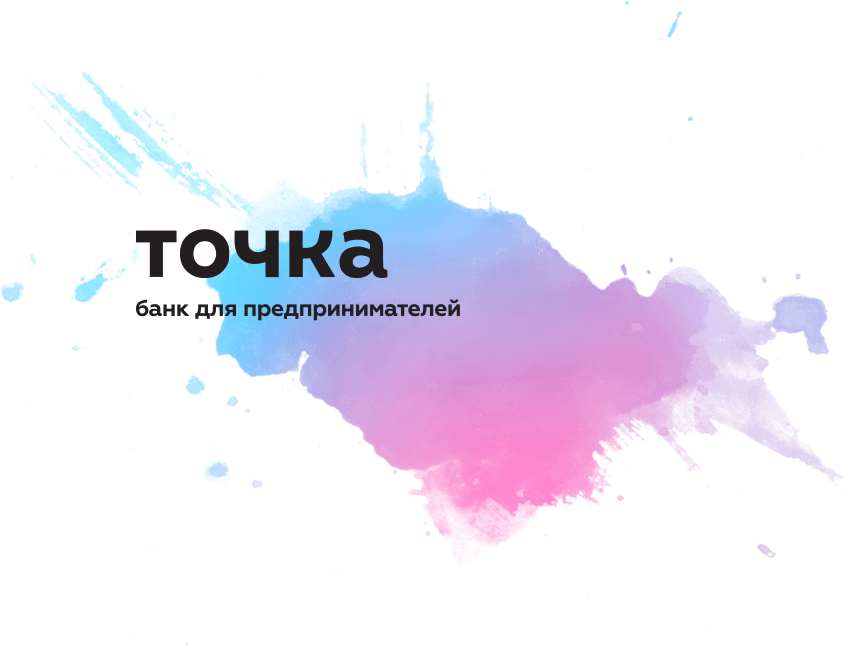
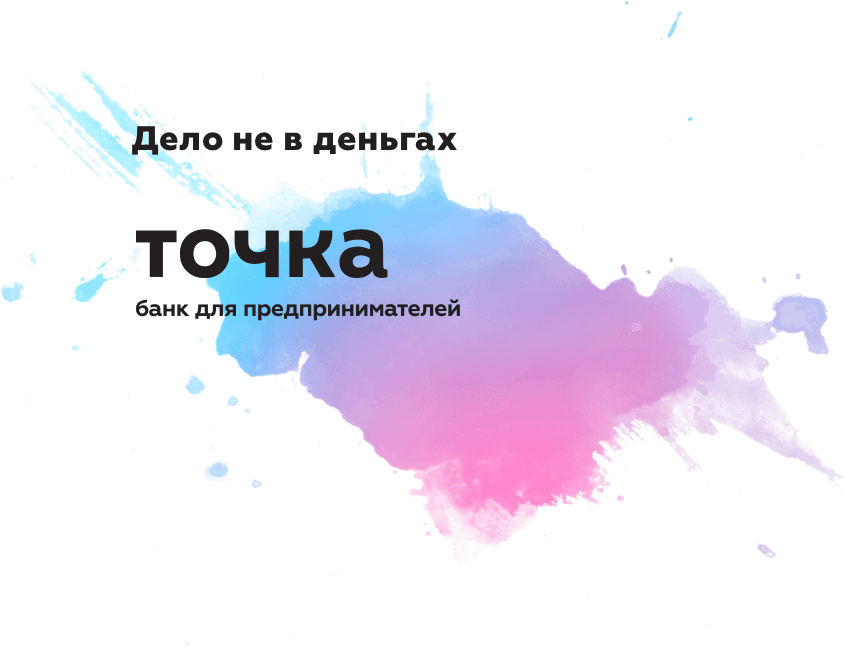
updated copy/index companies

Changed region(s): [[0.154, 0.1852, 0.5545, 0.2469]]

diff --git a/frontend/pages/index.html b/frontend/pages/index.html
@@ -9,9 +9,14 @@
 {% else %}
 <div class="company">
 {% endif %}
-  <div class="avatar" style="background-image:url(./images/companies/{{data.key}}/preview.png)">
-  </div>
-  <h3>{{ data.short_title }}</h3>
+  {% if data.short_title %}
+    <div class="avatar" style="background-image:url(./images/companies/{{data.key}}/preview.png)">
+    </div>
+    <h3>{{ data.short_title }}</h3>
+  {% else %}
+    <div class="avatar" style="background-image:url(./images/companies/noname.png)">
+    </div>
+  {% endif %}
   <h4>{{ data.city }}</h4>
 {% if data.content %}
 </a>
@@ -32,7 +37,8 @@
   <div class="main">
     <div class="index">
       <div class="title">
-        <a href="/">Бизнес-близнецы</a>
+        <div>Бизнес-близнецы</div>
+        <h2 class="subtitle">Дело не в деньгах</h2>
       </div>
       <a href="https://tochka.com/" target="_blank" class="sponsor-tochka">
         <img src="./images/sponsor-tochka.png" />
@@ -71,13 +77,13 @@
       <div class="frame js_frame">
         <ul class="slides js_slides">
           <li>
-            {{ compared("Кроссфит-клуб", arma, crossfit, true) }}
+            {{ compared("Кроссфит-клубы", arma, crossfit, true) }}
           </li>
           <li>
-            {{ compared("Агенство кибербезопасности", group_ib, mandalay) }}
+            {{ compared("Кондитерские", banoffi, bravo) }}
           </li>
           <li>
-            {{ compared("Пекарня", bakery_brothers, zeit_fur_brot) }}
+            {{ compared("Фотостудии", ekaterinburg, london) }}
           </li>
         </ul>
       </div>
@@ -92,13 +98,13 @@
     </div>
     <ul class="companies">
       <li>
-        {{ compared("Кроссфит-клуб", arma, crossfit, true) }}
+        {{ compared("Кроссфит-клубы", arma, crossfit, true) }}
       </li>
       <li>
-        {{ compared("Агенство кибербезопасности", group_ib, mandalay) }}
+        {{ compared("Кондитерские", banoffi, bravo) }}
       </li>
       <li>
-        {{ compared("Пекарня", bakery_brothers, zeit_fur_brot) }}
+        {{ compared("Фотостудии", ekaterinburg, london) }}
       </li>
     </ul>
   </div>

diff --git a/gulpfile.js b/gulpfile.js
@@ -84,10 +84,10 @@ gulp.task('nunjucks', function() {
   return gulp.src('frontend/pages/**/*.html')
     .pipe(data(function() { return require('./frontend/data/arma.json') }))
     .pipe(data(function() { return require('./frontend/data/crossfit.json') }))
-    .pipe(data(function() { return require('./frontend/data/group_ib.json') }))
-    .pipe(data(function() { return require('./frontend/data/mandalay.json') }))
-    .pipe(data(function() { return require('./frontend/data/bakery_brothers.json') }))
-    .pipe(data(function() { return require('./frontend/data/zeit_fur_brot.json') }))
+    .pipe(data(function() { return require('./frontend/data/bravo.json') }))
+    .pipe(data(function() { return require('./frontend/data/banoffi.json') }))
+    .pipe(data(function() { return require('./frontend/data/ekaterinburg.json') }))
+    .pipe(data(function() { return require('./frontend/data/london.json') }))
     .pipe(data(function() { return require('./frontend/data/meta.json') }))
     .pipe(data(function() { return { "production": !isDevelopment } }))
     .pipe(nunjucksRender({

diff --git a/frontend/styles/index.css b/frontend/styles/index.css
@@ -243,6 +243,11 @@ $companiesHeightMobile: 177px;
 
 .companies,
 .companies-slider {
+  li {
+    vertical-align: top;
+    height: 100%;
+  }
+
   li:nth-child(2),
   li:nth-child(3) {
     .compared {
@@ -253,10 +258,12 @@ $companiesHeightMobile: 177px;
       content: 'Скоро';
 
       position: absolute;
-      top: 50%; left: 50%;
+      top: calc(32px + 73px/2);
+      left: 50%;
       transform: translate(-50%, -50%);
 
-      @media (min-width: $smalltablet) {
+      @media (min-width: $tablet) {
+        top: calc(42px + 112px/2);
         left: 47%;
       }
 

diff --git a/frontend/styles/shared.css b/frontend/styles/shared.css
@@ -32,7 +32,7 @@
     left: calc(50% - 1160px/2);
   }
 
-  a {
+  a, div:first-child {
     display: block;
     width: 100px;
 
@@ -44,6 +44,18 @@
 
     @media (min-width: $tablet) {
       width: 200px;
+    }
+  }
+
+  .subtitle {
+    margin-top: 5px;
+
+    font-size: 11px;
+    font-weight: 800;
+    line-height: 1.5;
+
+    @media (min-width: $mobile) {
+      font-size: 13px;
     }
   }
 }
